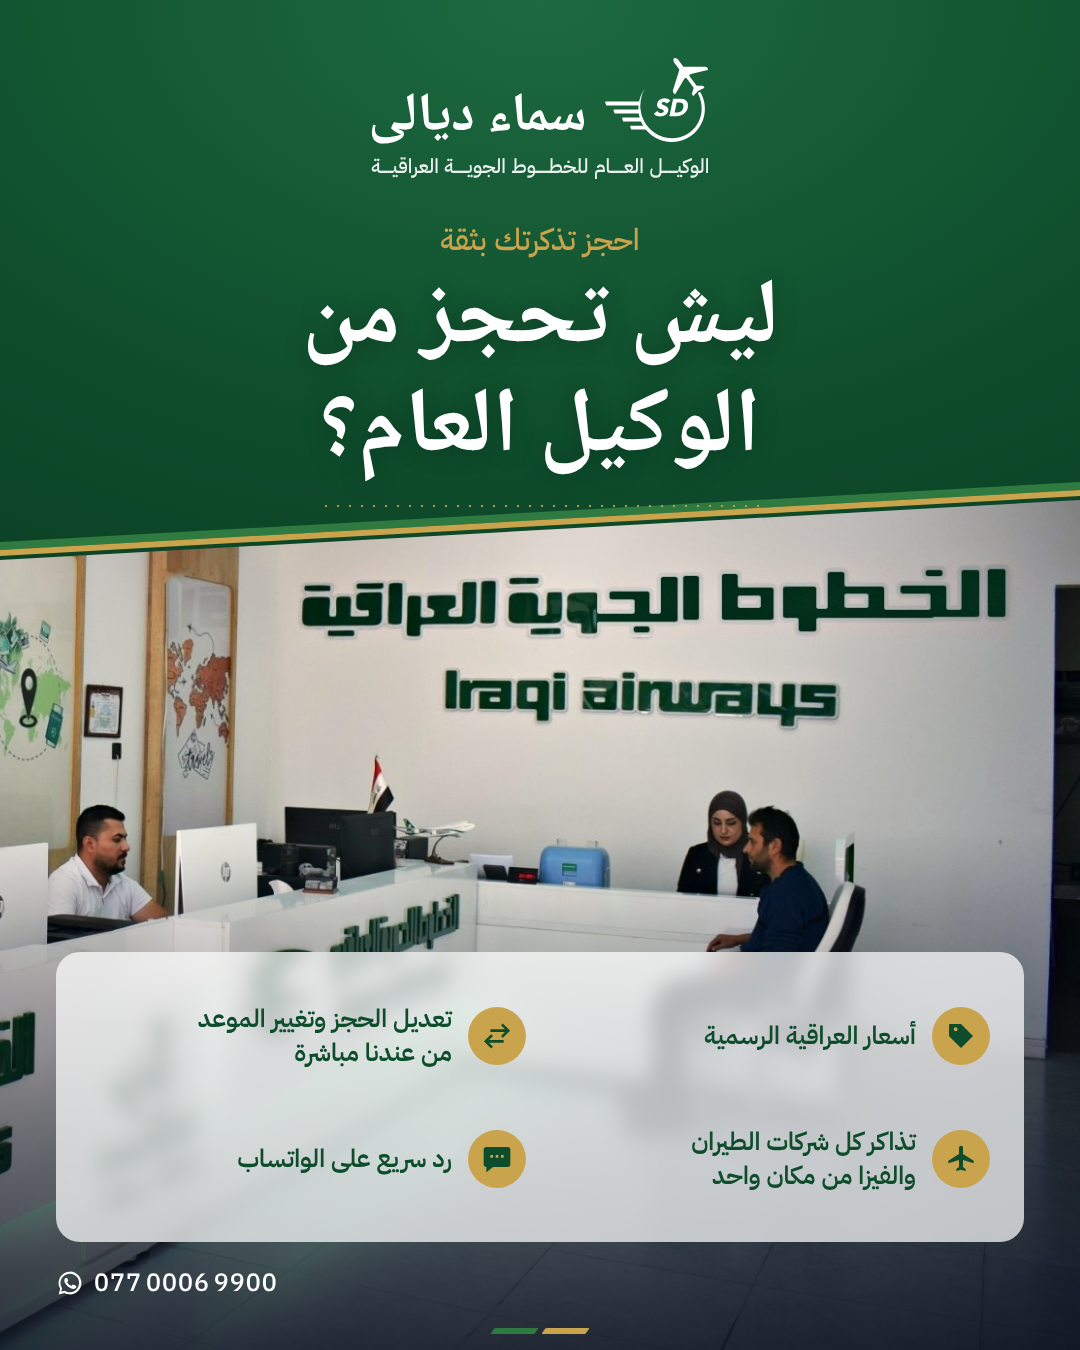
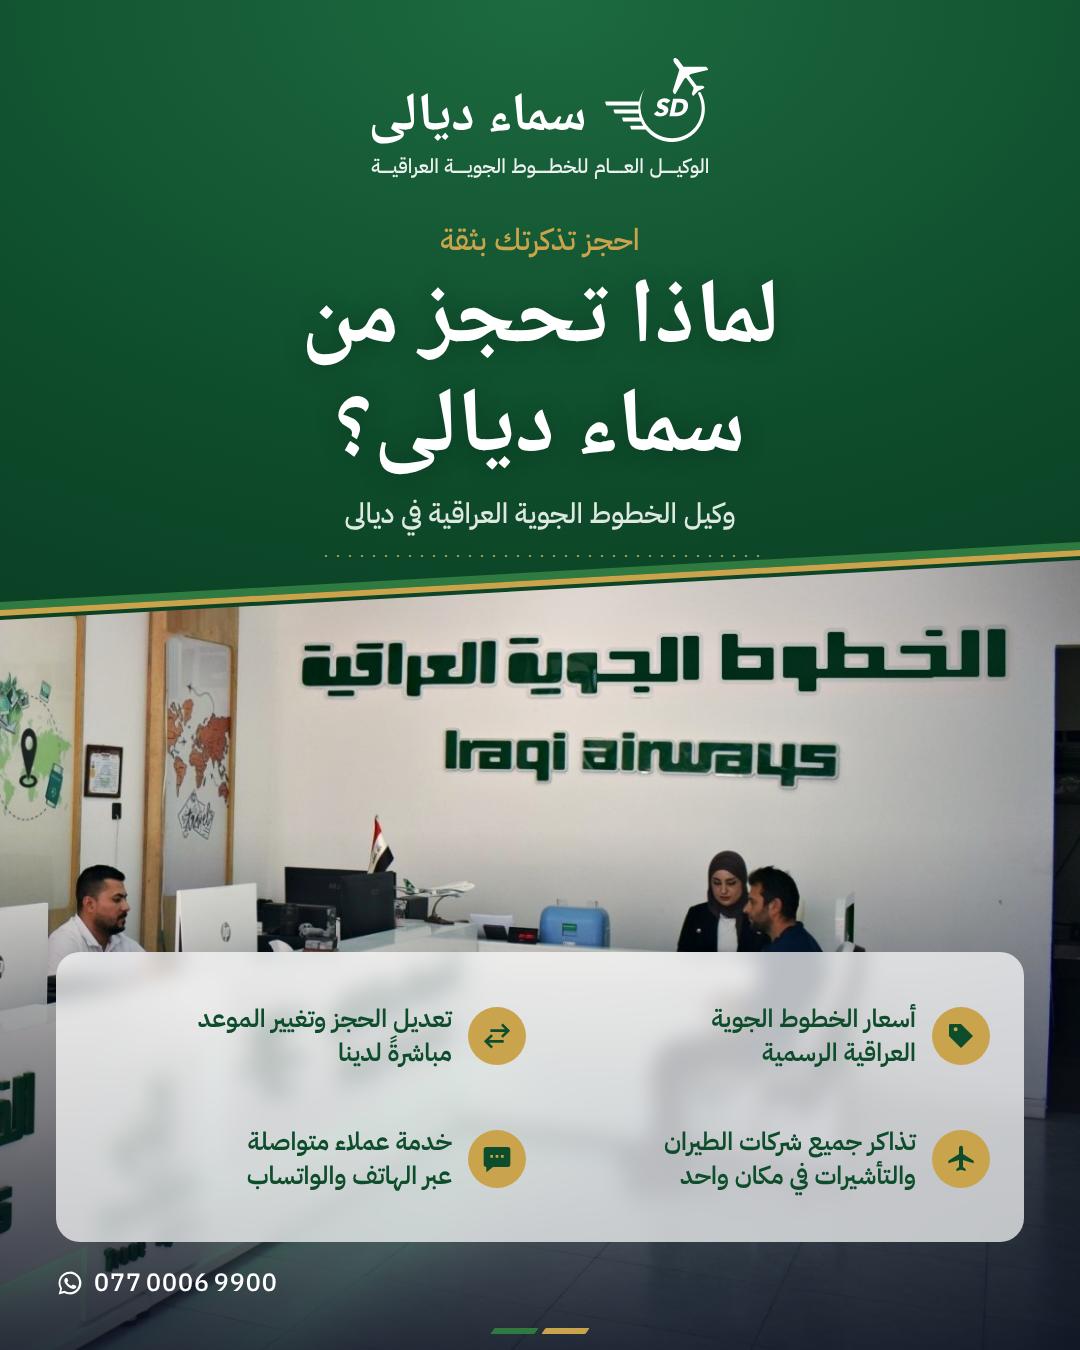
قالب الثقة بالفصحى: لماذا تحجز من سماء ديالى
Claude-Session: https://claude.ai/code/session_01EprWPUJDuKvYHn821imCPv

diff --git a/09-التصاميم/قالب الثقة - ليش تحجز من الوكيل العام/إعلان.html b/09-التصاميم/قالب الثقة - ليش تحجز من الوكيل العام/إعلان.html
@@ -2,7 +2,7 @@
 <html lang="ar" dir="rtl">
 <head>
 <meta charset="utf-8">
-<title>ليش تحجز من الوكيل العام</title>
+<title>لماذا تحجز من سماء ديالى</title>
 <style>
   @font-face{font-family:Naskh;font-weight:700;src:url("../../07-أدوات/خطوط/noto-naskh-arabic-arabic-700-normal.woff2")}
   @font-face{font-family:Plex;font-weight:400;src:url("../../07-أدوات/خطوط/ibm-plex-sans-arabic-arabic-400-normal.woff2");unicode-range:U+0600-06FF,U+0750-077F,U+FB50-FDFF,U+FE70-FEFF,U+200C-200E}
@@ -88,6 +88,7 @@
   .pt .ic{width:58px;height:58px;border-radius:50%;background:#C9A44C;display:flex;align-items:center;justify-content:center;flex:none}
   .pt .ic svg{width:32px;height:32px}
   .pt .tx{font-family:Plex;font-weight:600;font-size:25px;line-height:1.35}
+  .sub{margin-top:8px;font-family:Plex;font-weight:500;font-size:28px;color:#E9F2EA;opacity:.95}
   .perf{margin-top:20px;width:440px;height:2px;
         background-image:radial-gradient(circle,rgba(201,164,76,.85) 1.2px,transparent 1.6px);
         background-size:12px 2px;background-repeat:repeat-x}
@@ -109,10 +110,10 @@
 <div class="ad">
   <div class="glow"></div>
   <svg class="collage" viewBox="0 0 1080 1350" width="1080" height="1350">
-    <defs><clipPath id="off"><polygon points="0,560.0 1080,500.0 1080,1350 0,1350"/></clipPath></defs>
-    <image href="../../08-الصور/المكتب - الواجهة (نهائية بإضاءة سينمائية).jpg" x="-860" y="58" width="1940" height="1295" preserveAspectRatio="none" clip-path="url(#off)"/>
-    <polygon points="0,542.0 1080,482.0 1080,490.0 0,550.0" fill="#2F7A41"/>
-    <polygon points="0,550.0 1080,490.0 1080,496.0 0,556.0" fill="#C9A44C"/>
+    <defs><clipPath id="off"><polygon points="0,620 1080,560 1080,1350 0,1350"/></clipPath></defs>
+    <image href="../../08-الصور/المكتب - الواجهة (نهائية بإضاءة سينمائية).jpg" x="-860" y="118" width="1940" height="1295" preserveAspectRatio="none" clip-path="url(#off)"/>
+    <polygon points="0,602 1080,542 1080,550 0,610" fill="#2F7A41"/>
+    <polygon points="0,610 1080,550 1080,556 0,616" fill="#C9A44C"/>
   </svg>
   <div class="shade-bot"></div>
   <div class="head">
@@ -124,10 +125,11 @@
       <div class="tag" id="tag">الوكيــــــل العــــــام للخطــــــوط الجويــــــة العراقيـــــة</div>
     </div>
     <div class="kicker">احجز تذكرتك بثقة</div>
-    <div class="dest">ليش تحجز من<br>الوكيل العام؟</div>
+    <div class="dest">لماذا تحجز من<br>سماء ديالى؟</div>
+    <div class="sub">وكيل الخطوط الجوية العراقية في ديالى</div>
     <div class="perf"></div>
   </div>
-  <div class="card"><div class="pt"><span class="ic"><svg viewBox="0 0 24 24" fill="#0E4D2C"><path d="M3 12V4a1 1 0 0 1 1-1h8l9 9-9 9-9-9zm5-6.5A1.5 1.5 0 1 0 8 8.5 1.5 1.5 0 0 0 8 5.5z"/></svg></span><span class="tx">أسعار العراقية الرسمية</span></div><div class="pt"><span class="ic"><svg viewBox="0 0 24 24" fill="#0E4D2C"><path d="M7 7h11l-3-3 1.4-1.4L21.8 8l-5.4 5.4L15 12l3-3H7V7zm10 10H6l3 3-1.4 1.4L2.2 16l5.4-5.4L9 12l-3 3h11v2z"/></svg></span><span class="tx">تعديل الحجز وتغيير الموعد<br>من عندنا مباشرة</span></div><div class="pt"><span class="ic"><svg viewBox="0 0 24 24" fill="#0E4D2C"><path d="M21.5 15.2v-1.9l-8-5V3.5a1.5 1.5 0 0 0-3 0v4.8l-8 5v1.9l8-2.5v5.3l-2 1.5V21l3.5-1 3.5 1v-1.5l-2-1.5v-5.3z"/></svg></span><span class="tx">تذاكر كل شركات الطيران<br>والفيزا من مكان واحد</span></div><div class="pt"><span class="ic"><svg viewBox="0 0 24 24" fill="#0E4D2C"><path d="M4 3h16a2 2 0 0 1 2 2v11a2 2 0 0 1-2 2H9l-5 4v-4H4a2 2 0 0 1-2-2V5a2 2 0 0 1 2-2zm3 6v2h2V9H7zm4 0v2h2V9h-2zm4 0v2h2V9h-2z"/></svg></span><span class="tx">رد سريع على الواتساب</span></div></div>
+  <div class="card"><div class="pt"><span class="ic"><svg viewBox="0 0 24 24" fill="#0E4D2C"><path d="M3 12V4a1 1 0 0 1 1-1h8l9 9-9 9-9-9zm5-6.5A1.5 1.5 0 1 0 8 8.5 1.5 1.5 0 0 0 8 5.5z"/></svg></span><span class="tx">أسعار الخطوط الجوية<br>العراقية الرسمية</span></div><div class="pt"><span class="ic"><svg viewBox="0 0 24 24" fill="#0E4D2C"><path d="M7 7h11l-3-3 1.4-1.4L21.8 8l-5.4 5.4L15 12l3-3H7V7zm10 10H6l3 3-1.4 1.4L2.2 16l5.4-5.4L9 12l-3 3h11v2z"/></svg></span><span class="tx">تعديل الحجز وتغيير الموعد<br>مباشرةً لدينا</span></div><div class="pt"><span class="ic"><svg viewBox="0 0 24 24" fill="#0E4D2C"><path d="M21.5 15.2v-1.9l-8-5V3.5a1.5 1.5 0 0 0-3 0v4.8l-8 5v1.9l8-2.5v5.3l-2 1.5V21l3.5-1 3.5 1v-1.5l-2-1.5v-5.3z"/></svg></span><span class="tx">تذاكر جميع شركات الطيران<br>والتأشيرات في مكان واحد</span></div><div class="pt"><span class="ic"><svg viewBox="0 0 24 24" fill="#0E4D2C"><path d="M4 3h16a2 2 0 0 1 2 2v11a2 2 0 0 1-2 2H9l-5 4v-4H4a2 2 0 0 1-2-2V5a2 2 0 0 1 2-2zm3 6v2h2V9H7zm4 0v2h2V9h-2zm4 0v2h2V9h-2z"/></svg></span><span class="tx">خدمة عملاء متواصلة<br>عبر الهاتف والواتساب</span></div></div>
   <div class="foot"><div></div>
     <div class="wa">
       <svg viewBox="0 0 32 32" fill="#fff" aria-hidden="true"><path d="M16 3a13 13 0 0 0-11.2 19.6L3 29l6.6-1.7A13 13 0 1 0 16 3zm0 23.6c-2 0-4-.5-5.7-1.6l-.4-.2-3.9 1 1-3.8-.3-.4A10.6 10.6 0 1 1 16 26.6zm5.8-7.9c-.3-.2-1.9-.9-2.2-1-.3-.1-.5-.2-.7.2l-1 1.2c-.2.2-.4.2-.7.1a8.7 8.7 0 0 1-4.3-3.8c-.3-.6.3-.5 1-1.7.1-.2 0-.4 0-.6l-1-2.4c-.3-.6-.5-.5-.7-.5h-.6c-.2 0-.6.1-.9.4-.3.3-1.2 1.1-1.2 2.8s1.2 3.2 1.4 3.5c.2.2 2.4 3.6 5.8 5 2.1.9 3 1 4 .8.7-.1 1.9-.8 2.2-1.6.3-.8.3-1.4.2-1.6-.1-.1-.3-.2-.6-.3z"/></svg>
